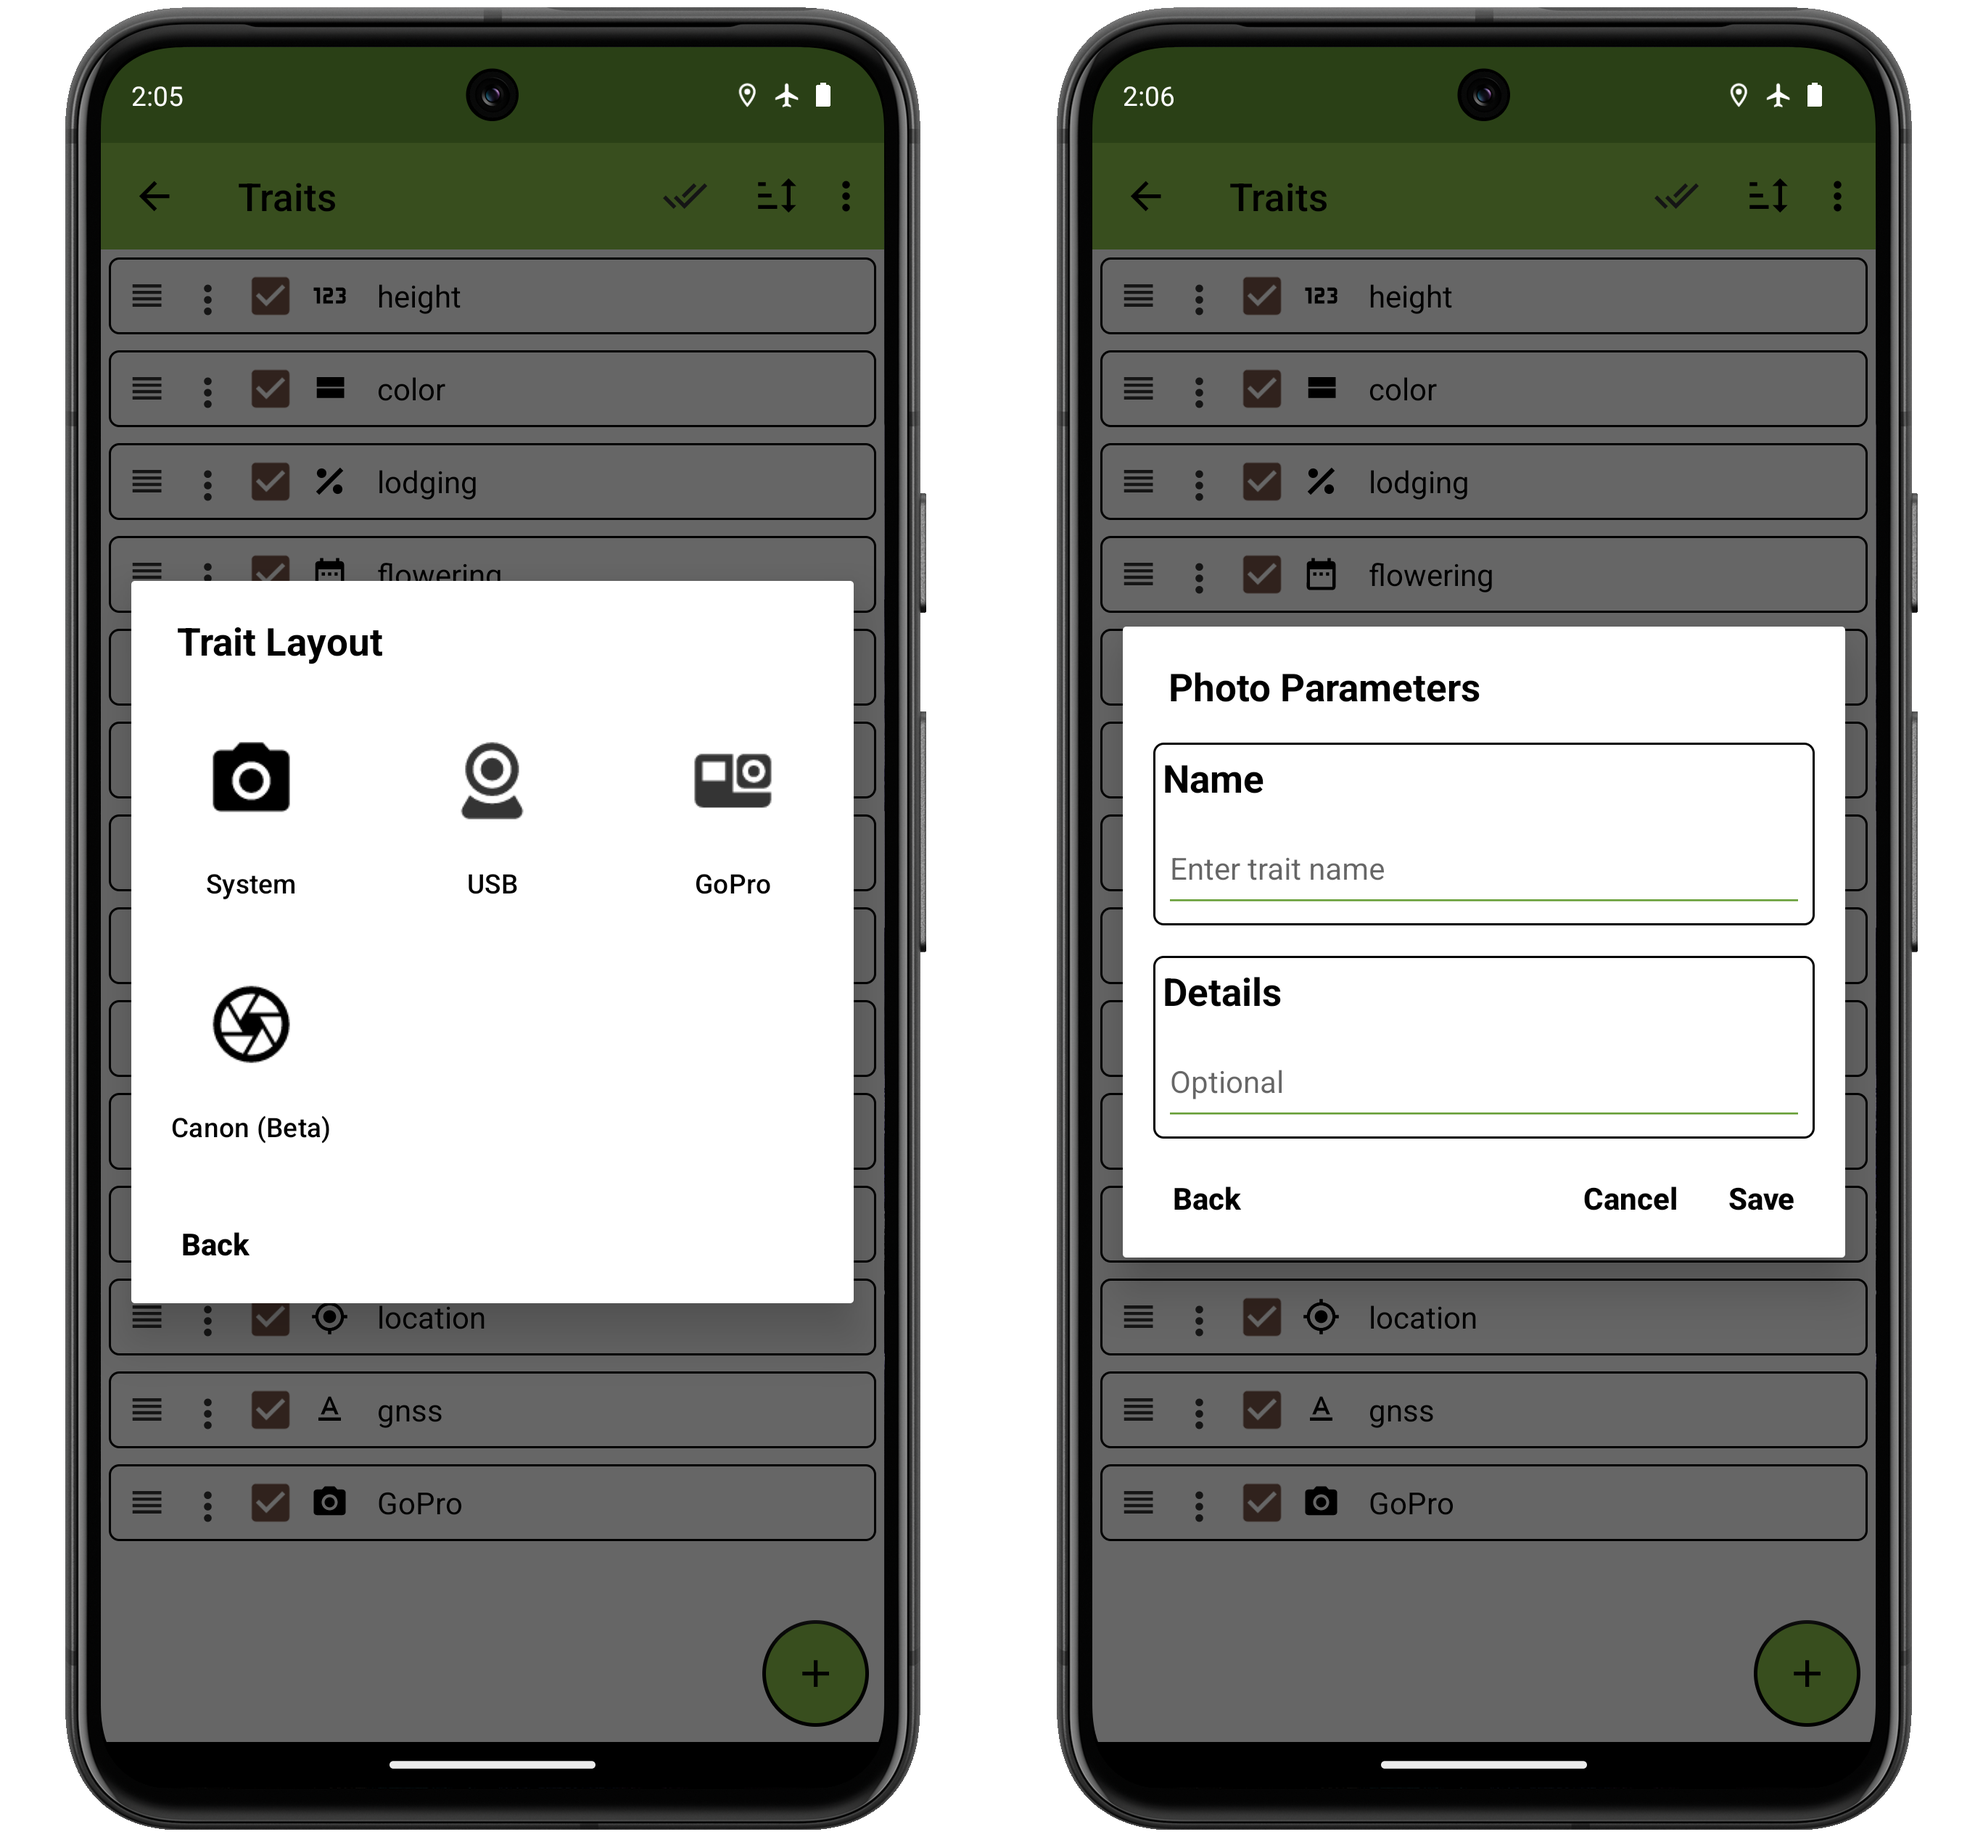
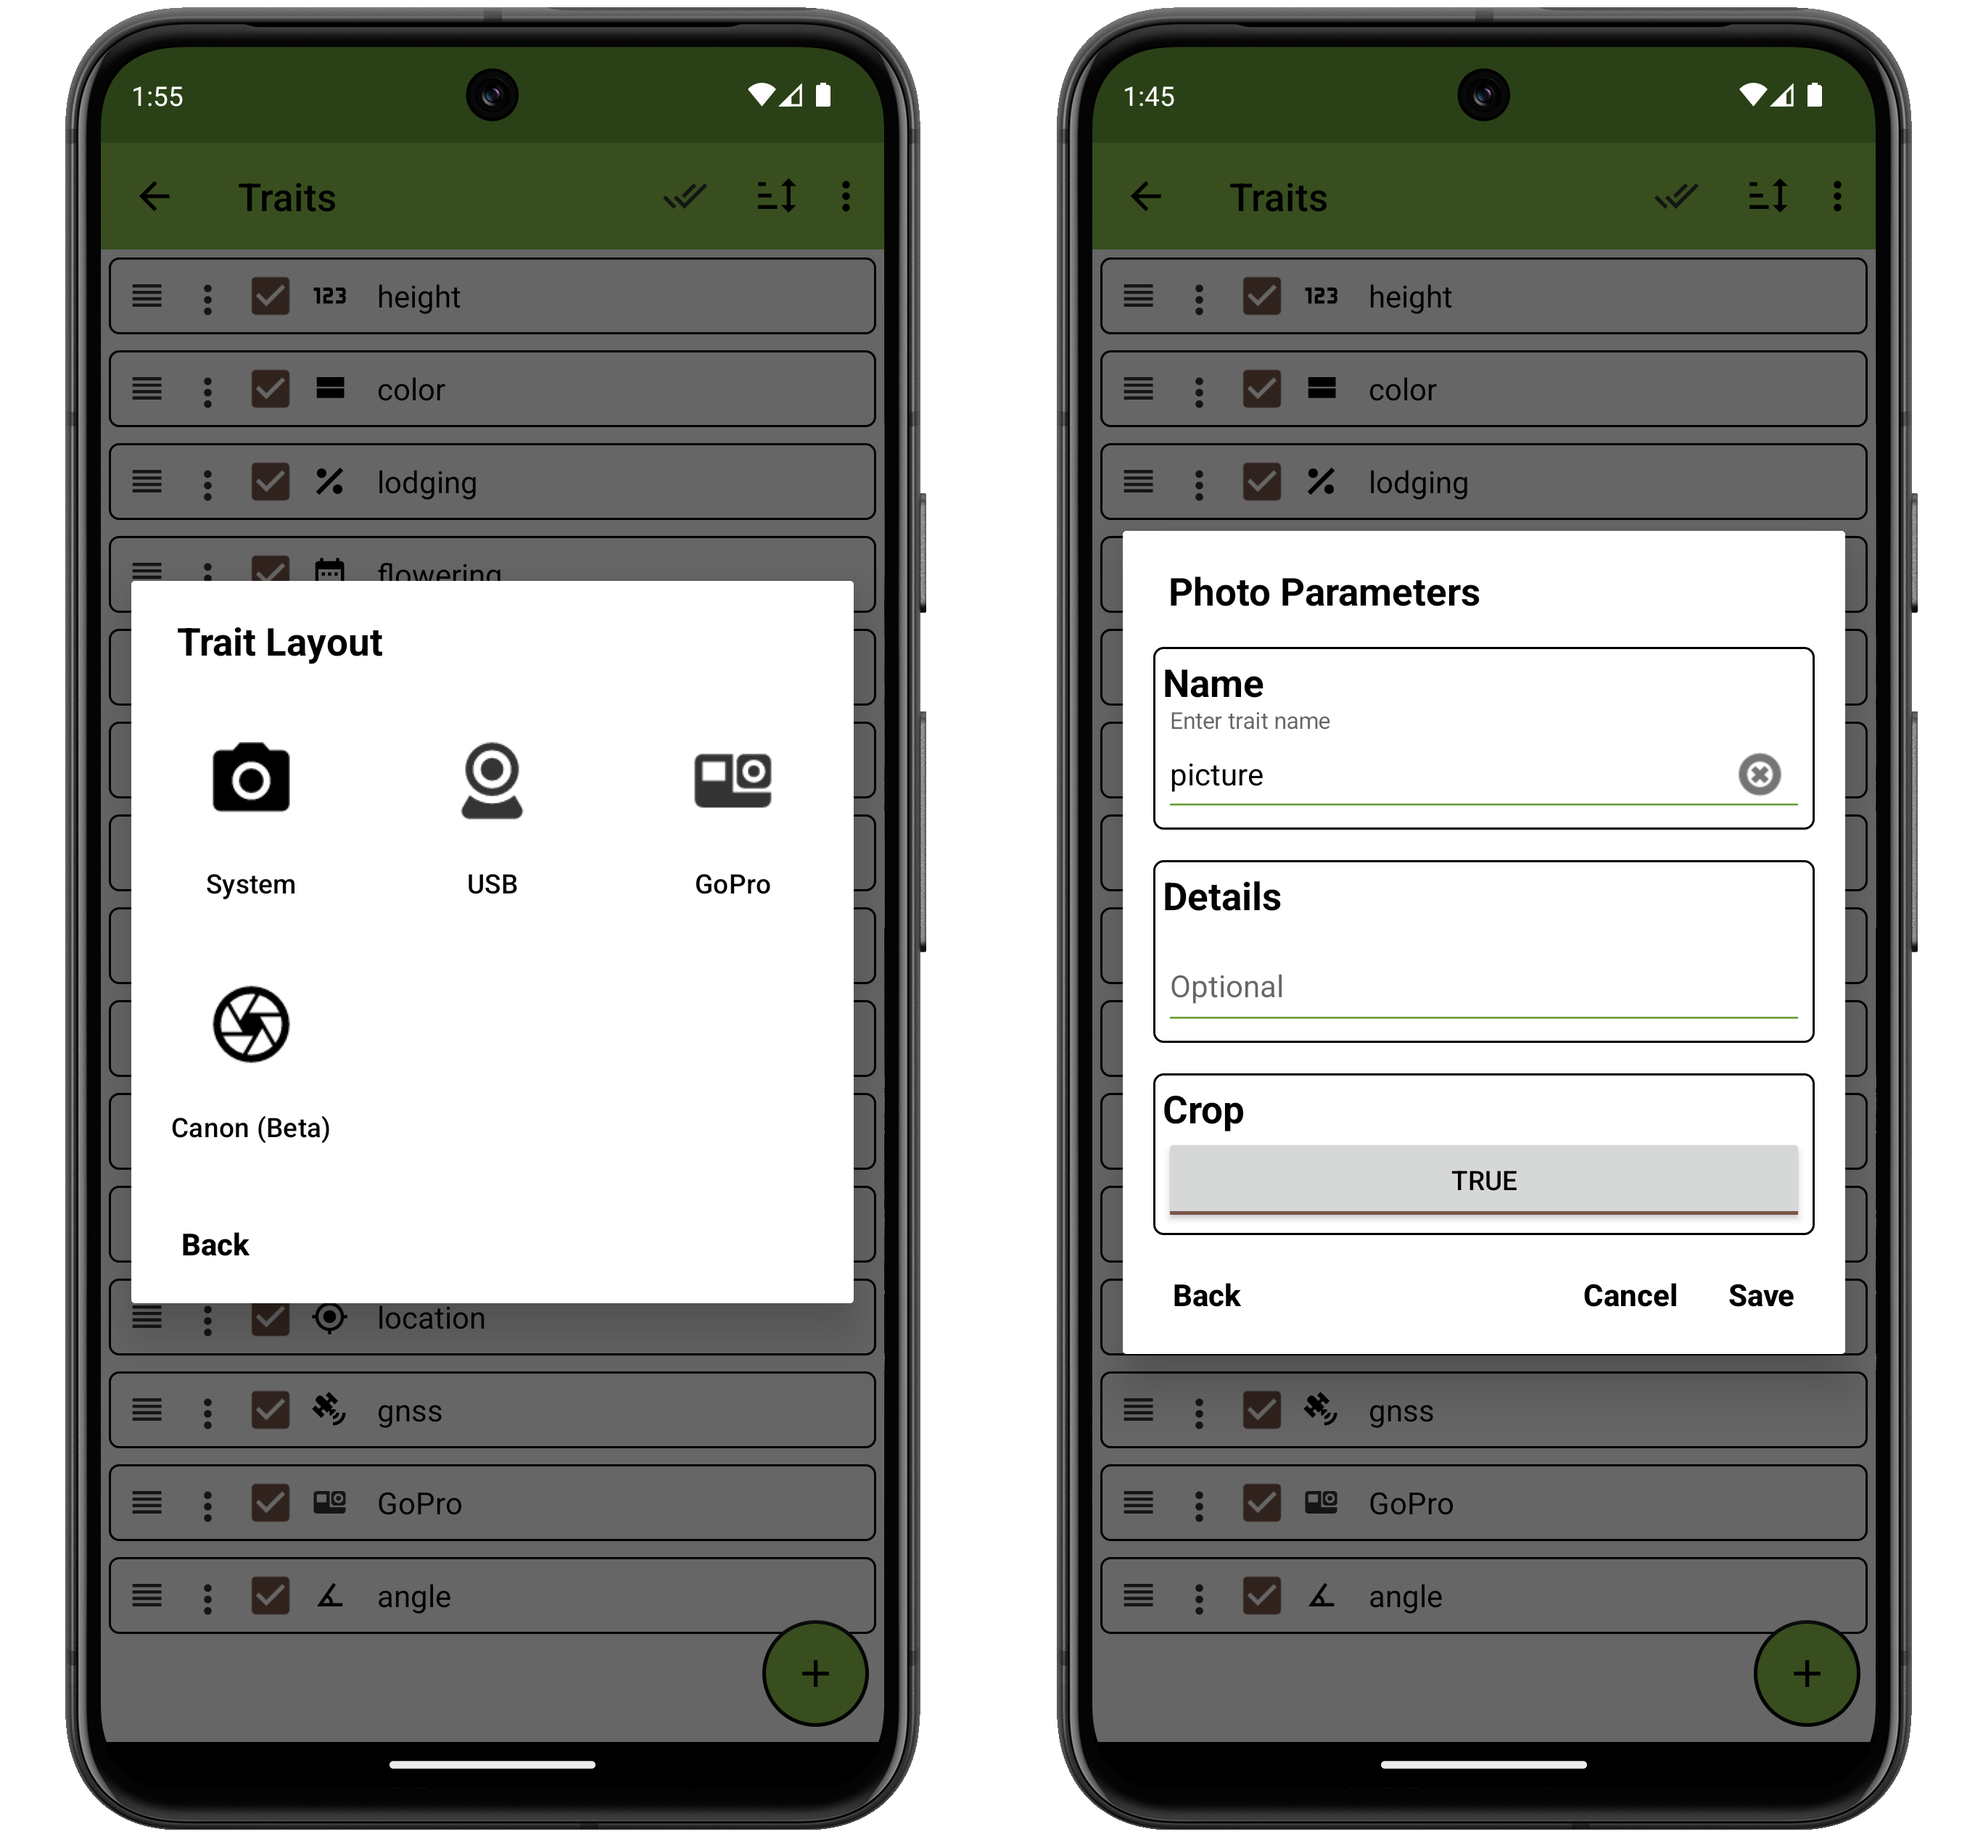
crop region docs

diff --git a/docs/traits/trait-photo.md b/docs/traits/trait-photo.md
@@ -23,6 +23,14 @@ Field Book allows photos to be captured from different camera sources including 
 
 On the Collect Screen, pressing the <img class="icon" src="_static/icons/formats/shutter.png"> icon captures an image from the camera.
 Pressing the <img class="icon" src="_static/icons/formats/cog.png"> icon opens a settings dialog, where the resolution, preview, and other options can be adjusted.
+
+If crop region was set to true when creating the trait then the "Set Crop Region" option will show up in the settings. Press it to take a photo and adjust the crop dimensions that will automatically be applied to captured photos. 
+
+<figure class="image">
+  <img class="screenshot" src="_static/images/traits/formats/crop_region_joined.png" width="1100px"> 
+  <figcaption class="screenshot-caption"><i>Setting a photo trait's crop region</i></figcaption> 
+</figure>
+
 Multiple photos can be captured for each entry. 
 
 Captured photos are stored in `.jpg` format, and named by using underscores to join the entry's `unique id`, the trait name, the photo number, and a timestamp.

diff --git a/docs/collect.md b/docs/collect.md
@@ -146,6 +146,8 @@ The bottom half of the screen is used to input data.
 The elements and layout of this area change based on the trait that is currently active.
 Information for each specific trait format can be found in the Trait Formats pages.
 
+Newly input values are colored black and displayed with italic font. Saved values are colored red and displayed in red font. The font difference can be used to distinguish between the two even on black and white screens.
+
 <figure class="image">
   <img class="screenshot" src="_static/images/collect/collect_framed.png" width="350px"> 
   <figcaption class="screenshot-caption"><i>Collect screen</i></figcaption> 
